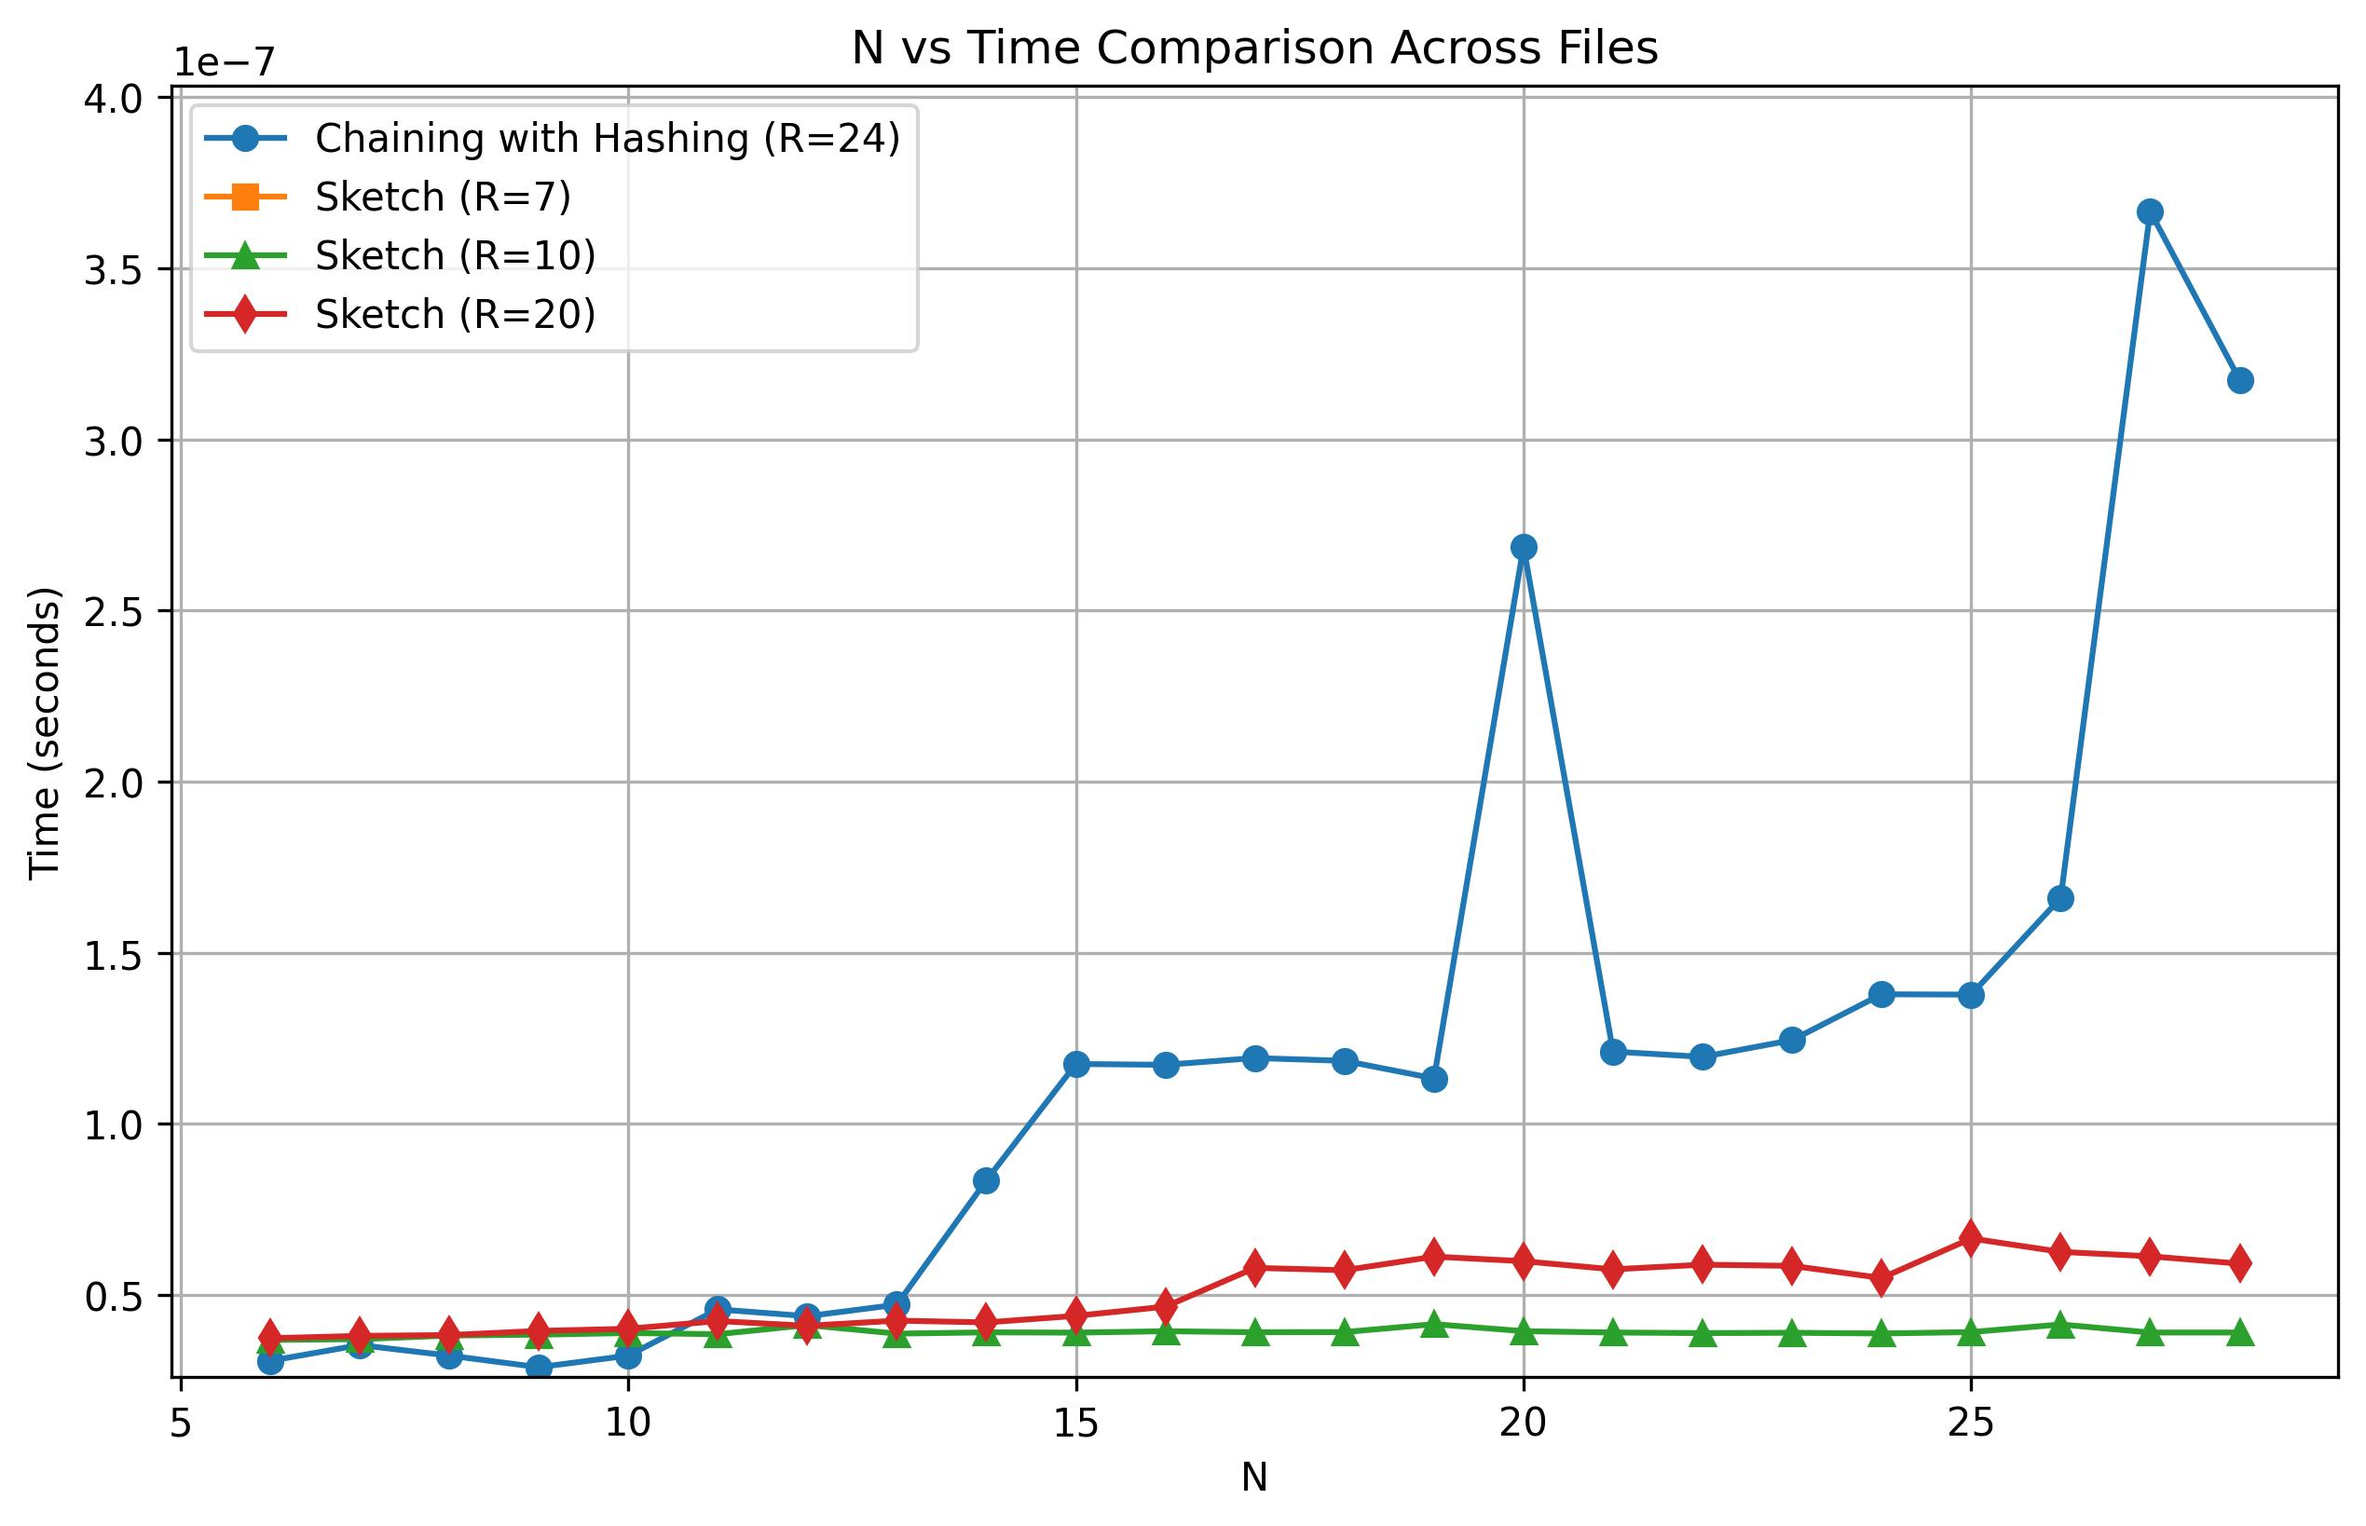
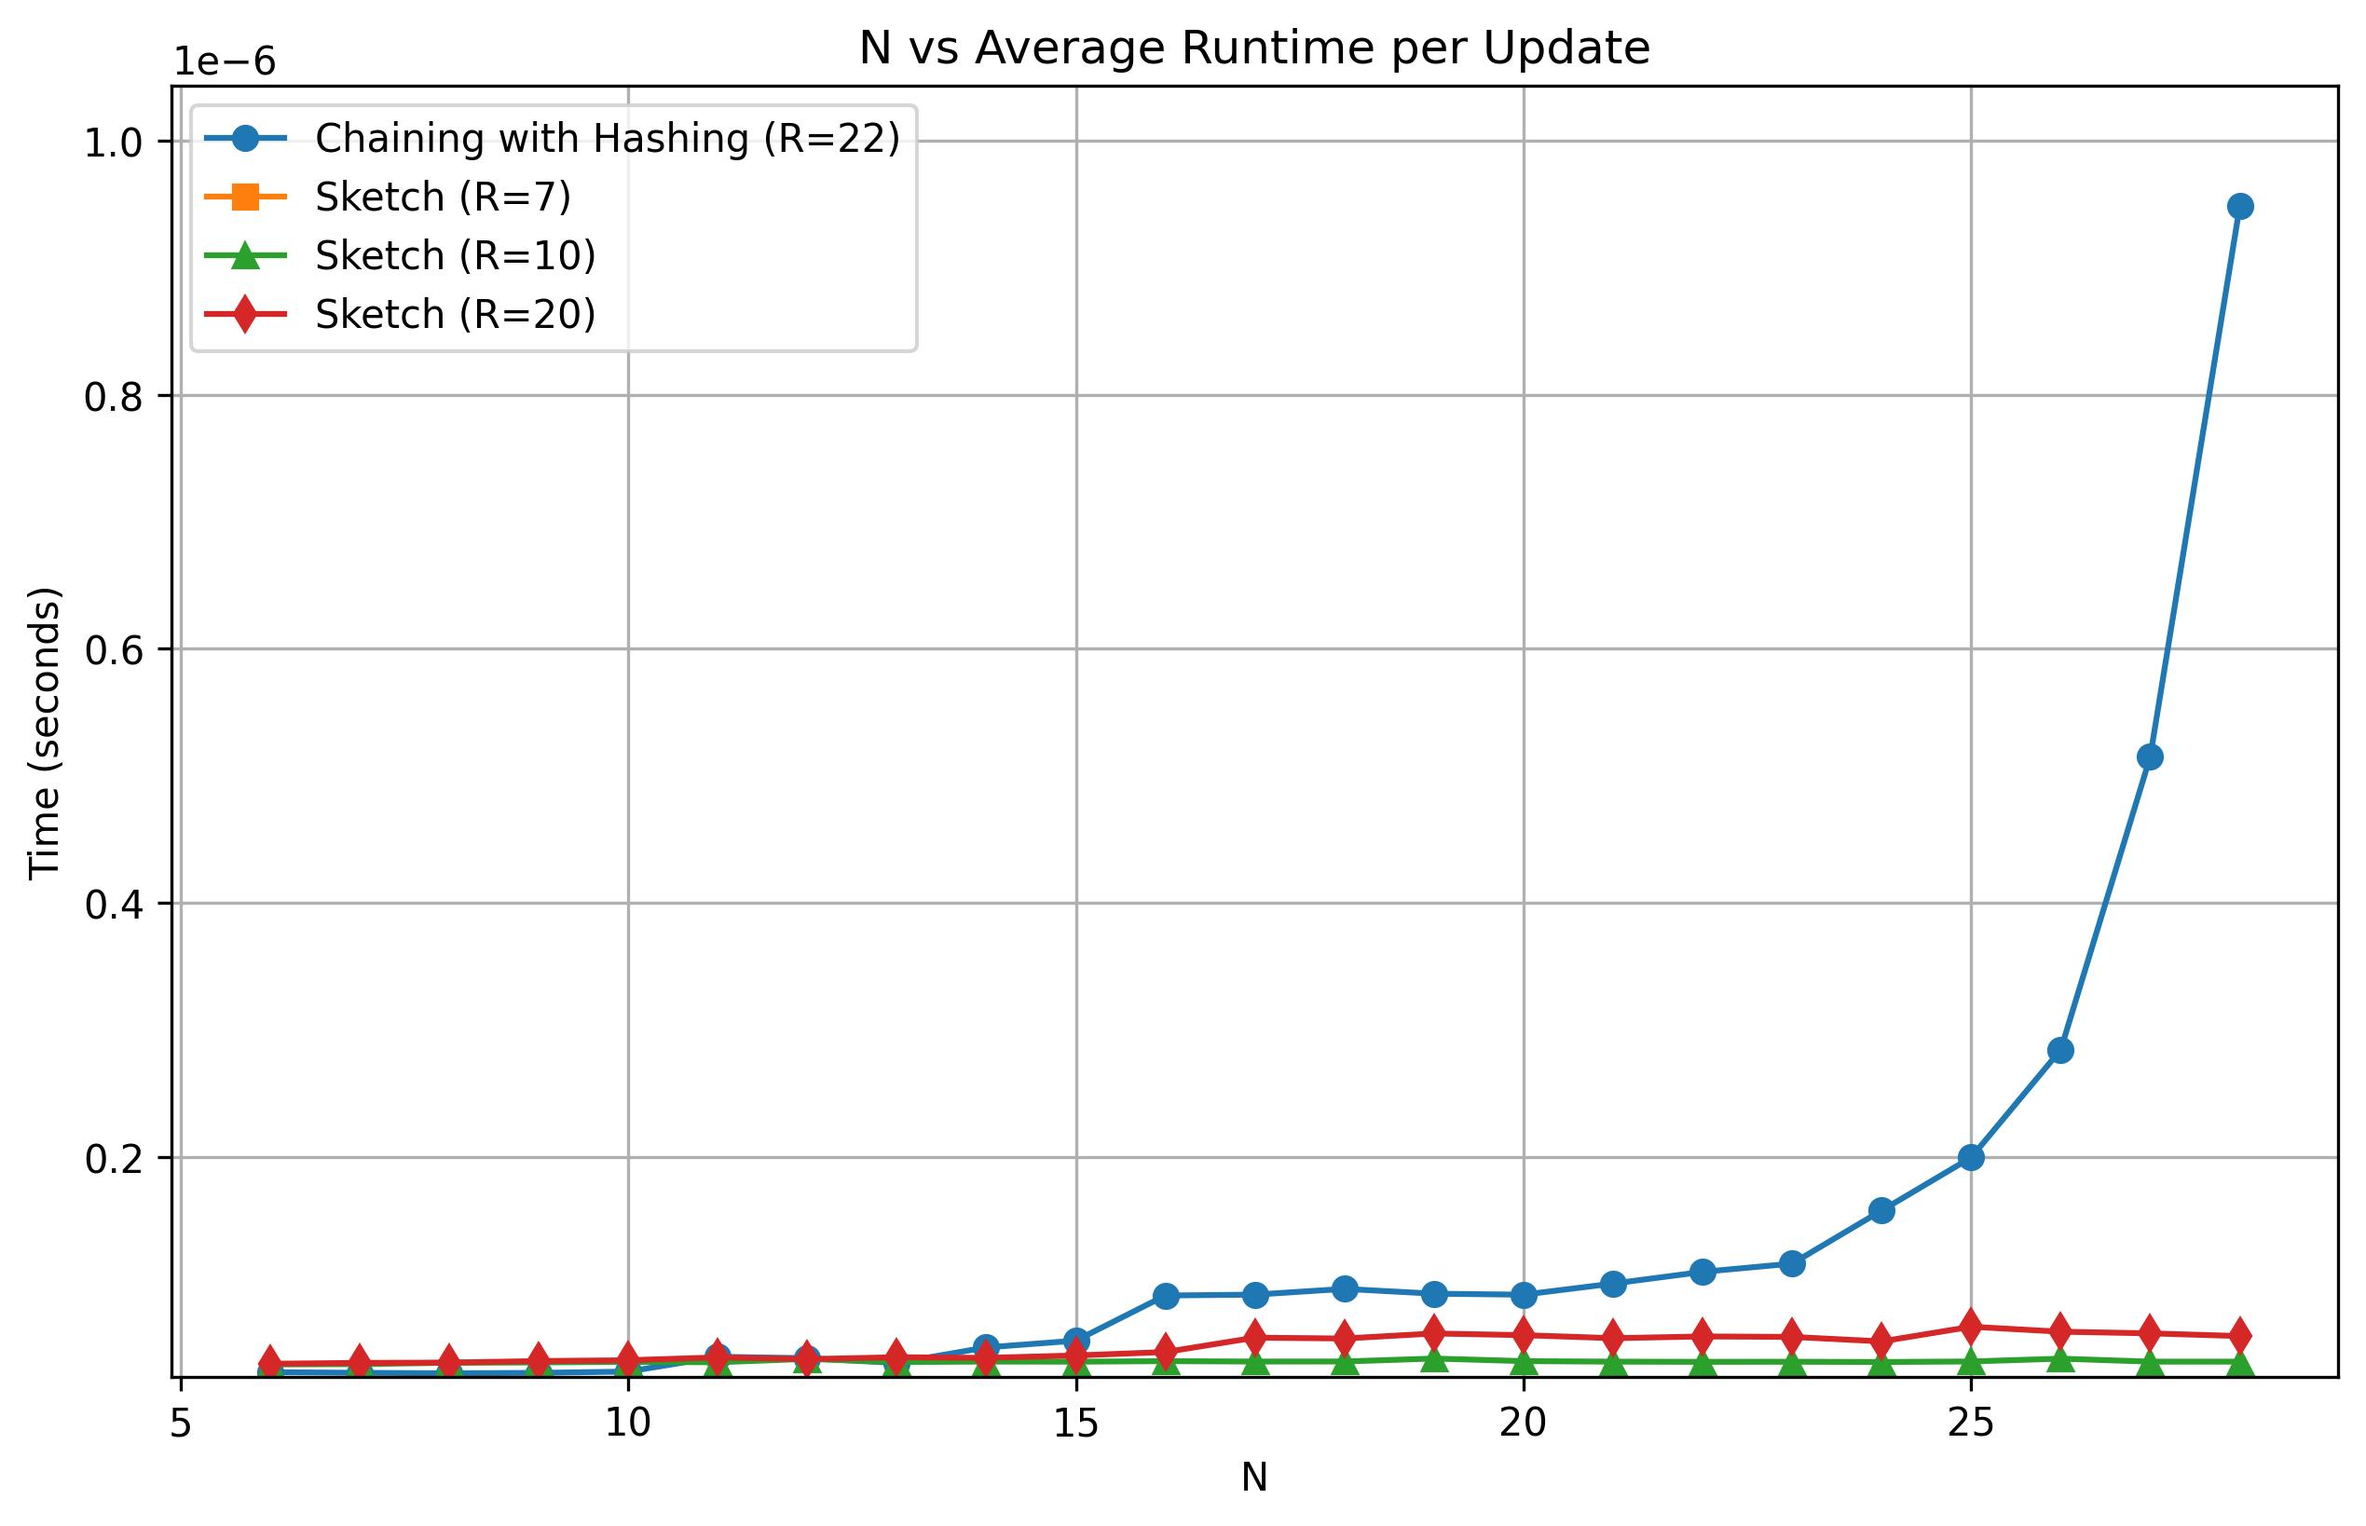
better results for chaining performance

diff --git a/chaining_hashing.cpp b/chaining_hashing.cpp
@@ -30,7 +30,7 @@ uint32_t ChainingHashTable::multiply_shift_uint32(uint32_t x, uint32_t l, uint32
 void ChainingHashTable::update(uint32_t key, int64_t delta)
 {
     // size_t index = multiply_shift_uint32(key, 32, a | 1) % table_size;
-    size_t index = multiply_shift_uint32(key, 18, a | 1);
+    size_t index = multiply_shift_uint32(key, 22, a | 1);
 
     // Search if key already exists in the table
     for (auto &item : table[index])

diff --git a/data/performance/performance.py b/data/performance/performance.py
@@ -18,7 +18,7 @@ df4['time_s'] = df4['time_s'] / 1000000000
 
 plt.figure(figsize=(10, 6))
 
-plt.plot(df1['N'], df1['time_s'], label='Chaining with Hashing (R=24)', marker='o')
+plt.plot(df1['N'], df1['time_s'], label='Chaining with Hashing (R=22)', marker='o')
 
 plt.plot(df2['N'], df2['time_s'], label='Sketch (R=7)', marker='s')
 plt.plot(df3['N'], df3['time_s'], label='Sketch (R=10)', marker='^')

diff --git a/main.cpp b/main.cpp
@@ -55,7 +55,7 @@ void norm_benchmarks()
 {
     uint64_t iter = 1'000'000'000; // 10^9 updates
 
-    auto R = 18;
+    auto R = 22;
     std::cout << "Testing Chain Runtime R=" << R << std::endl;
     std::cout << "N, time_s\n";
     for (size_t N = 6; N <= 28; N++)
